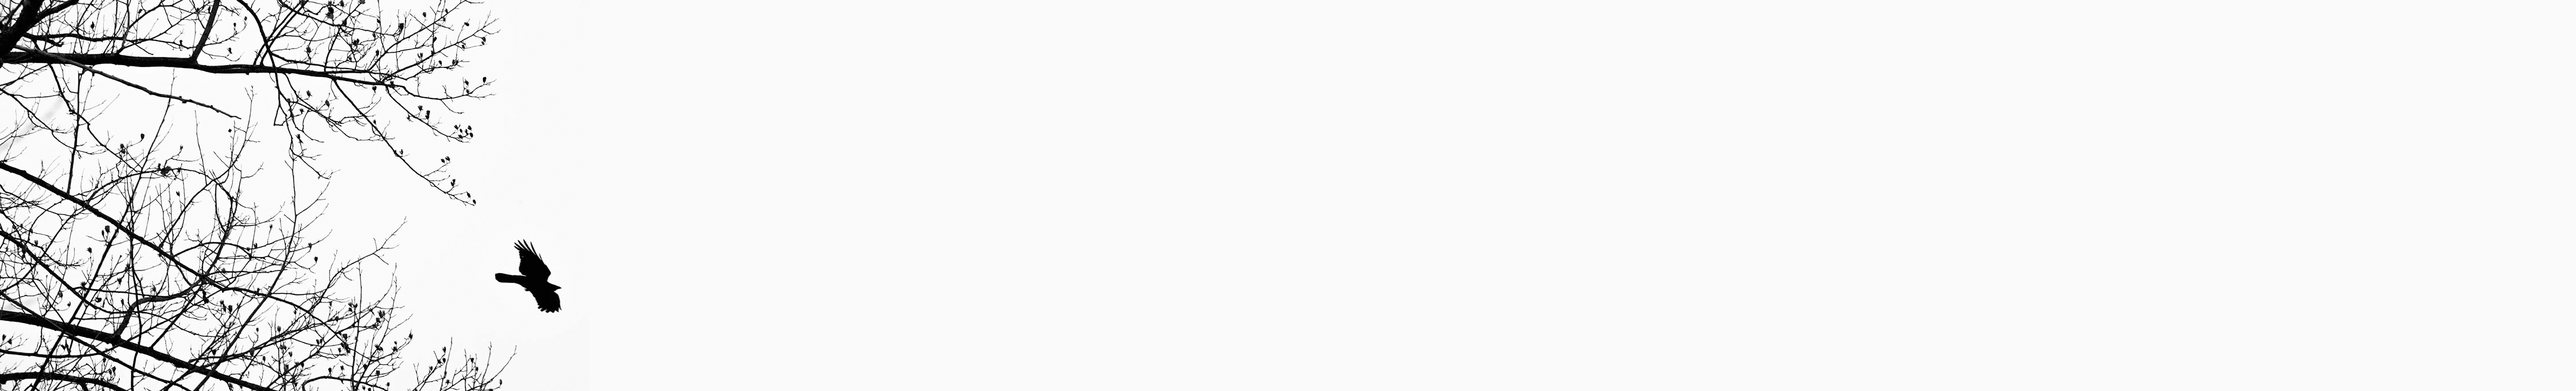
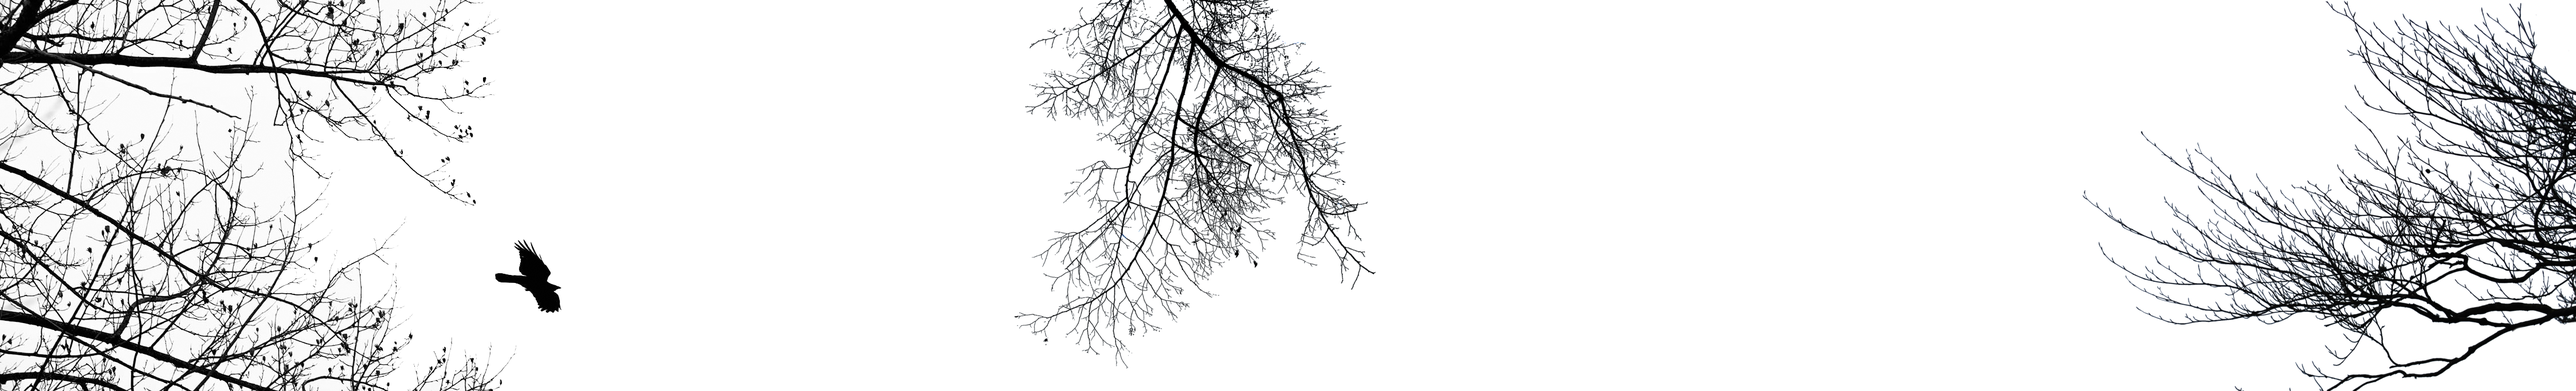
css ajusts

Changed region(s): [[0.8407, 0.0614, 1.0, 1.0], [0.4048, 0.0, 0.5294, 0.8904], [0.1557, 0.9211, 0.1868, 0.9825]]

diff --git a/wordpress/wp-content/themes/theme-default/js/jquery.scrollme.min.js b/wordpress/wp-content/themes/theme-default/js/jquery.scrollme.min.js
@@ -1,0 +1,6 @@
+// ----------------------------------------------------------------------------------------------------
+// ScrollMe
+// A jQuery plugin for adding simple scrolling effects to web pages
+// http://scrollme.nckprsn.com
+// ----------------------------------------------------------------------------------------------------
+var scrollme=(function(a){var d={};var c=a(document);var b=a(window);d.body_height=0;d.viewport_height=0;d.viewport_top=0;d.viewport_bottom=0;d.viewport_top_previous=-1;d.elements=[];d.elements_in_view=[];d.property_defaults={opacity:1,translatex:0,translatey:0,translatez:0,rotatex:0,rotatey:0,rotatez:0,scale:1,scalex:1,scaley:1,scalez:1};d.scrollme_selector=".scrollme";d.animateme_selector=".animateme";d.update_interval=10;d.easing_functions={linear:function(e){return e},easeout:function(e){return e*e*e},easein:function(e){e=1-e;return 1-(e*e*e)},easeinout:function(e){if(e<0.5){return(4*e*e*e)}else{e=1-e;return 1-(4*e*e*e)}}};d.init_events=["ready","page:load","page:change"];d.init_if=function(){return true};d.init=function(){if(!d.init_if()){return false}d.init_elements();d.on_resize();b.on("resize orientationchange",function(){d.on_resize()});b.load(function(){setTimeout(function(){d.on_resize()},100)});setInterval(d.update,d.update_interval);return true};d.init_elements=function(){a(d.scrollme_selector).each(function(){var e={};e.element=a(this);var f=[];a(this).find(d.animateme_selector).addBack(d.animateme_selector).each(function(){var h={};h.element=a(this);h.when=h.element.data("when");h.from=h.element.data("from");h.to=h.element.data("to");if(h.element.is("[data-crop]")){h.crop=h.element.data("crop")}else{h.crop=true}if(h.element.is("[data-easing]")){h.easing=d.easing_functions[h.element.data("easing")]}else{h.easing=d.easing_functions.easeout}var g={};if(h.element.is("[data-opacity]")){g.opacity=h.element.data("opacity")}if(h.element.is("[data-translatex]")){g.translatex=h.element.data("translatex")}if(h.element.is("[data-translatey]")){g.translatey=h.element.data("translatey")}if(h.element.is("[data-translatez]")){g.translatez=h.element.data("translatez")}if(h.element.is("[data-rotatex]")){g.rotatex=h.element.data("rotatex")}if(h.element.is("[data-rotatey]")){g.rotatey=h.element.data("rotatey")}if(h.element.is("[data-rotatez]")){g.rotatez=h.element.data("rotatez")}if(h.element.is("[data-scale]")){g.scale=h.element.data("scale")}if(h.element.is("[data-scalex]")){g.scalex=h.element.data("scalex")}if(h.element.is("[data-scaley]")){g.scaley=h.element.data("scaley")}if(h.element.is("[data-scalez]")){g.scalez=h.element.data("scalez")}h.properties=g;f.push(h)});e.effects=f;d.elements.push(e)})};d.update=function(){window.requestAnimationFrame(function(){d.update_viewport_position();if(d.viewport_top_previous!=d.viewport_top){d.update_elements_in_view();d.animate()}d.viewport_top_previous=d.viewport_top})};d.animate=function(){var C=d.elements_in_view.length;for(var A=0;A<C;A++){var h=d.elements_in_view[A];var f=h.effects.length;for(var D=0;D<f;D++){var w=h.effects[D];switch(w.when){case"view":case"span":var r=h.top-d.viewport_height;var n=h.bottom;break;case"exit":var r=h.bottom-d.viewport_height;var n=h.bottom;break;default:var r=h.top-d.viewport_height;var n=h.top;break}if(w.crop){if(r<0){r=0}if(n>(d.body_height-d.viewport_height)){n=d.body_height-d.viewport_height}}var g=(d.viewport_top-r)/(n-r);var x=w.from;var j=w.to;var o=j-x;var k=(g-x)/o;var v=w.easing(k);var l=d.animate_value(g,v,x,j,w,"opacity");var t=d.animate_value(g,v,x,j,w,"translatey");var u=d.animate_value(g,v,x,j,w,"translatex");var s=d.animate_value(g,v,x,j,w,"translatez");var B=d.animate_value(g,v,x,j,w,"rotatex");var z=d.animate_value(g,v,x,j,w,"rotatey");var y=d.animate_value(g,v,x,j,w,"rotatez");var E=d.animate_value(g,v,x,j,w,"scale");var q=d.animate_value(g,v,x,j,w,"scalex");var p=d.animate_value(g,v,x,j,w,"scaley");var m=d.animate_value(g,v,x,j,w,"scalez");if("scale" in w.properties){q=E;p=E;m=E}w.element.css({opacity:l,transform:"translate3d( "+u+"px , "+t+"px , "+s+"px ) rotateX( "+B+"deg ) rotateY( "+z+"deg ) rotateZ( "+y+"deg ) scale3d( "+q+" , "+p+" , "+m+" )"})}}};d.animate_value=function(i,h,j,k,n,m){var g=d.property_defaults[m];if(!(m in n.properties)){return g}var e=n.properties[m];var f=(k>j)?true:false;if(i<j&&f){return g}if(i>k&&f){return e}if(i>j&&!f){return g}if(i<k&&!f){return e}var l=g+(h*(e-g));switch(m){case"opacity":l=l.toFixed(2);break;case"translatex":l=l.toFixed(0);break;case"translatey":l=l.toFixed(0);break;case"translatez":l=l.toFixed(0);break;case"rotatex":l=l.toFixed(1);break;case"rotatey":l=l.toFixed(1);break;case"rotatez":l=l.toFixed(1);break;case"scale":l=l.toFixed(3);break;default:break}return l};d.update_viewport_position=function(){d.viewport_top=b.scrollTop();d.viewport_bottom=d.viewport_top+d.viewport_height};d.update_elements_in_view=function(){d.elements_in_view=[];var f=d.elements.length;for(var e=0;e<f;e++){if((d.elements[e].top<d.viewport_bottom)&&(d.elements[e].bottom>d.viewport_top)){d.elements_in_view.push(d.elements[e])}}};d.on_resize=function(){d.update_viewport();d.update_element_heights();d.update_viewport_position();d.update_elements_in_view();d.animate()};d.update_viewport=function(){d.body_height=c.height();d.viewport_height=b.height()};d.update_element_heights=function(){var g=d.elements.length;for(var f=0;f<g;f++){var h=d.elements[f].element.outerHeight();var e=d.elements[f].element.offset();d.elements[f].height=h;d.elements[f].top=e.top;d.elements[f].bottom=e.top+h}};c.on(d.init_events.join(" "),function(){d.init()});return d})(jQuery);

diff --git a/wordpress/wp-content/themes/theme-default/js/prognroll.min.js b/wordpress/wp-content/themes/theme-default/js/prognroll.min.js
@@ -1,0 +1,1 @@
+!function(a){a.fn.prognroll=function(b){var c=a.extend({height:5,color:"#50bcb6",position:"top",custom:!1},b);return this.each(function(){if(a(this).data("prognroll"))return!1;a(this).data("prognroll",!0);var b=a("<span>",{class:"bar"});a("body").prepend(b),b.css({position:"fixed",left:0,width:0,height:c.height,backgroundColor:c.color,zIndex:9999999}),"top"===c.position?b.css("top",0):b.css("bottom",0),c.custom===!1?a(window).scroll(function(b){b.preventDefault();var c=a(window).scrollTop(),d=a(window).outerHeight(),e=a("body").outerHeight(),f=c/(e-d)*100;a(".bar").css("width",f+"%")}):a(this).scroll(function(b){b.preventDefault();var c=a(this).scrollTop(),d=a(this).outerHeight(),e=a(this).prop("scrollHeight"),f=c/(e-d)*100;a(".bar").css("width",f+"%")}),a(window).on("hashchange",function(b){b.preventDefault(),console.log(a(window).scrollTop())}),a(window).trigger("hashchange");var d=a(window).scrollTop(),e=a(window).outerHeight(),f=a("body").outerHeight(),g=d/(f-e)*100;a(".bar").css("width",g+"%")})}}(jQuery);

diff --git a/wordpress/wp-content/themes/theme-default/style.css b/wordpress/wp-content/themes/theme-default/style.css
@@ -87,21 +87,22 @@ a img
 {
     line-height: 0;
     z-index: 100;
-    width: 3000px;
+    width: 4500px;
 }
 
 .middle
 {
     z-index: 250;
     line-height: 0;
-    width: 4500px;
+    width: 3000px;
 }
 
 .front
 {
     z-index: 500;
     top: 150px;
-    width: 6000px;
+    width: 3800px;
+    /*width: 6000px;*/
 }
 
 .intro
@@ -117,33 +118,35 @@ a img
 {
     top: 0px;
     width: 500px;
-    background: white;
     padding: 10px 30px;
-    border: 1px #eee solid;
     position: absolute;
+    background-color: #c5c5c5; 
+    opacity: 0.8;
 }
 
 .description
 {
-    left: 1500px;
+    left: 1400px;
 }
 
 .documentation
 {
-    left: 2450px;
-    width: 700px;
+    left: 2150px;
+    width: 350px;
+    top: -100px;
 }
 
 .options
 {
-    width: 700px;
-    left: 3800px;
+    width: 400px;
+    left: 2600px;
 }
 
 .download
 {
-    width: 500px;
-    left: 5100px;
+    width: 280px;
+    left: 3200px;
+    top: -40px;
 }
 
 .license

diff --git a/wordpress/wp-content/themes/theme-default/page-default-1.php b/wordpress/wp-content/themes/theme-default/page-default-1.php
@@ -3,26 +3,29 @@
 
 
 <?php get_header(); ?>
+    
+    <div id="preloader">
+        <div class="icon"></div>
+    </div>
 
-
-    <div class="container">
-
-        <div class="header">
+    <div class="container" >
+        
+        <div class="header scrollme animateme" data-when="view" data-from="0.5" data-to="0" data-opacity="0" data-easing="easeout">
             <div class="logo">
                 <a href="/">
                     <img src="<?php echo get_bloginfo('template_directory');?>/img/header_png.png" alt="Le Corbeaux">
                 </a>
             </div>
         </div>
-        
+
         <div class="horizon scroll">
-            <!-- <img src="<?php echo get_bloginfo('template_directory');?>/img/horizon.png" alt="" /> -->
+            <img src="<?php echo get_bloginfo('template_directory');?>/img/horizonn.png" alt="" />
         </div>
         
         <div class="middle scroll">
-            <img src="<?php echo get_bloginfo('template_directory');?>/img/middlee.png" alt="" />
+            <!-- <img src="<?php echo get_bloginfo('template_directory');?>/img/middlee.png" alt="" /> -->
         </div>
-        
+
         <div class="front scroll">
             
             <div class="description page">
@@ -83,16 +86,52 @@
 
     </div>
 
-    <?php include 'le_scripts.php' ?>
-
     <script type="text/javascript">
+
     (function($) {
         $.jInvertScroll(['.scroll']);
     }(jQuery));
     
+
+    $(function() {
+        $("body").prognroll({
+            height:5,        //Progress bar height
+            color:"#b3b3b3", //Progress bar background color
+            position:"top",  //Progress bar position can be "top" or "bottom"
+            custom:false     //If you make it true, you can add your custom div and see it's scroll progress on the page    
+        });
+    });
+
+    function loadTheme(){
+        $("#preloader").animate({
+                opacity: 1
+            }, 50);
+
+        setTimeout(function() {
+            $("#preloader").animate({
+                opacity: 0,
+                zIndex: -999999
+            }, 500);
+
+            $("#eyeCatcherContent").parent().addClass("floatAvi")
+
+        }, 2500);
+
+        $('#banner').owlCarousel({
+            loop:true,
+            margin:0,
+            dots:true,
+            items:1,
+            nav:false,
+            autoplay:true,
+            autoplayTimeout:5000
+        });
+    };
+
     $(document).ready(function(){
         $('html, body').animate({scrollTop: 0}, 20);
     });
+
     </script>
 
 <?php get_footer(); ?>

diff --git a/wordpress/wp-content/themes/theme-default/le_scripts.php b/wordpress/wp-content/themes/theme-default/le_scripts.php
@@ -4,4 +4,8 @@
 
 <!-- <script type='text/javascript' src='<?php echo get_bloginfo('template_directory');?>/js/bootstrap.min.js'></script> -->
 
+<script type='text/javascript' src='<?php echo get_bloginfo('template_directory');?>/js/jquery.scrollme.min.js'></script>
+
 <script type='text/javascript' src='<?php echo get_bloginfo('template_directory');?>/js/jquery.jInvertScroll.min.js'></script>
+
+<script type='text/javascript' src='<?php echo get_bloginfo('template_directory');?>/js/prognroll.min.js'></script>

diff --git a/wordpress/wp-content/themes/theme-default/header.php b/wordpress/wp-content/themes/theme-default/header.php
@@ -20,8 +20,10 @@
 
 	<?php wp_head(); ?>
 
+    <?php include 'le_scripts.php' ?>
+
 	<?php include 'le_styles.php' ?>
 
 </head>
 
-<body <?php body_class(); ?>>
+<body>
